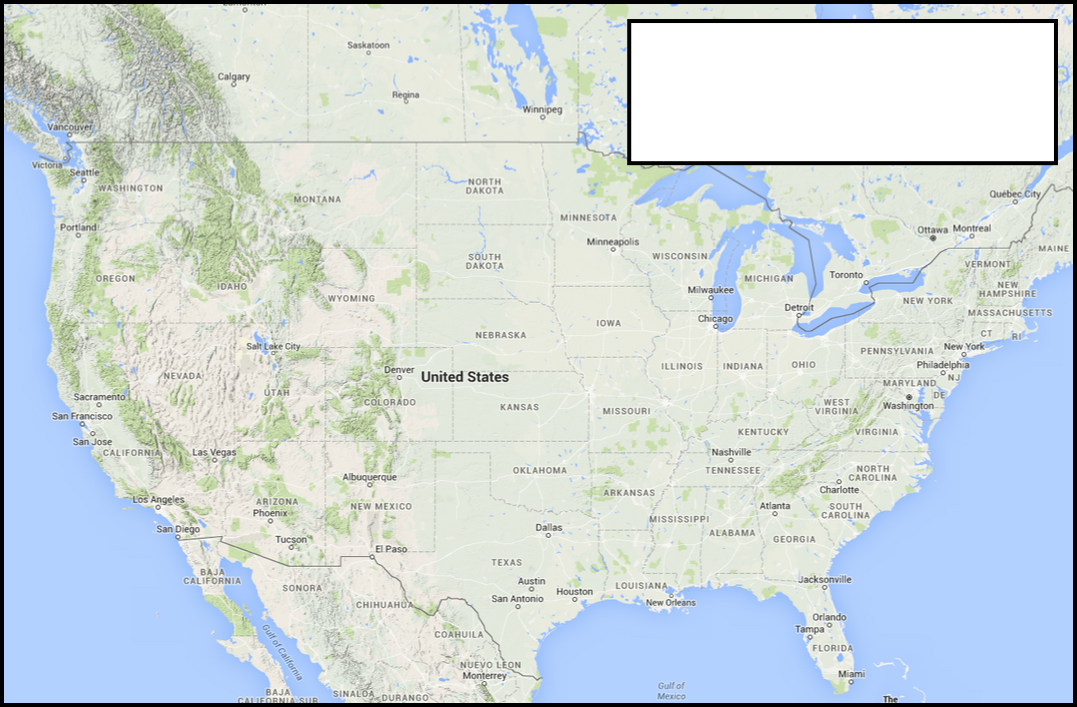
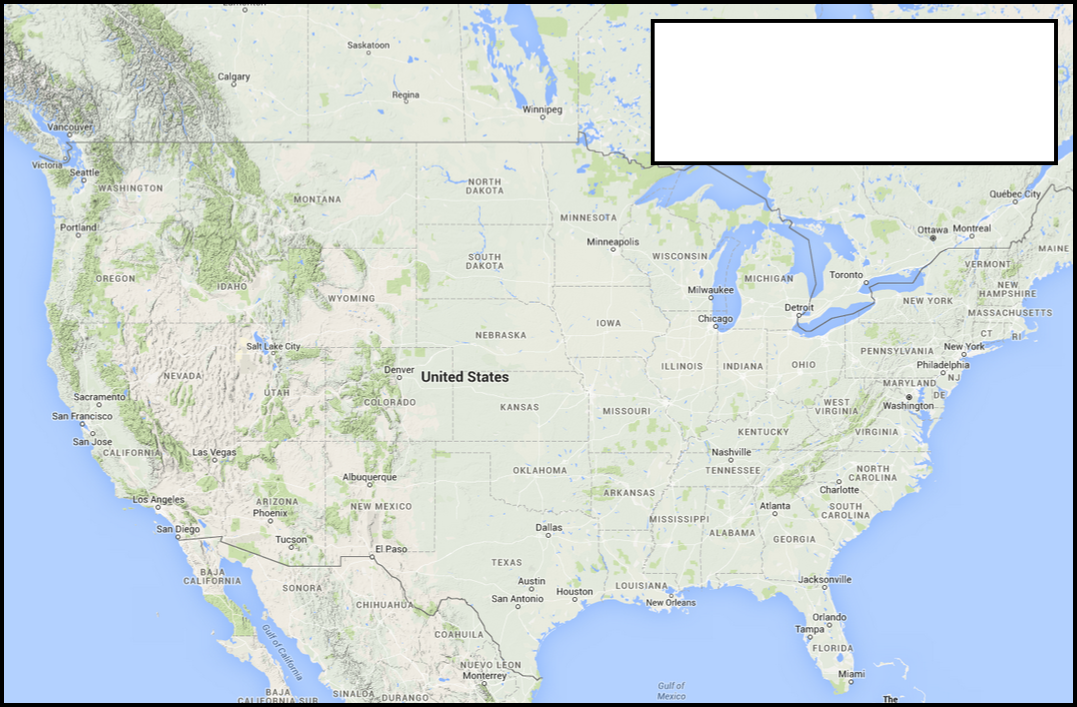
made it so that routes are now drawn

Changed region(s): [[0.5822, 0.0311, 0.6128, 0.2489]]

diff --git a/GUI/TTR_GUI.py b/GUI/TTR_GUI.py
@@ -2,6 +2,8 @@ from game.classes import *
 import matplotlib.pyplot as plt
 import matplotlib.image as mpimg
 import numpy as np
+from game.board import create_board
+
 
 #cities = dict()
 
@@ -10,7 +12,7 @@ import numpy as np
 #y = [] 
 
 class GUI():
-
+    colors = []
     cities = dict()
     x = []
     y = [] 
@@ -53,6 +55,19 @@ class GUI():
                        "Winnipeg": [ 540.9, 118.8 ]
                    }
 
+    def setColors(self):
+        #self.colors={'Red':'#185aa9',
+        #             'Orange':'#185aa9', 
+        #             'Blue':'AA3939',
+        #             'Yellow':'#185aa9',
+        #             'Green':'#185aa9',
+        #             'Pink':'#185aa9',
+        #             'Black':'#185aa9',
+        #             'White':'#185aa9',
+        #             'None':'#185aa9',
+        #         }
+        self.colors=['#b61c16','#bc5510','#1033bc','#d8c413','#13750a','#6c0a75','#030203','#ebeaeb','#6d696d']
+                     
     def plot_board(self):
         for city in self.cities:
             self.x.append(self.cities[city][0])
@@ -63,10 +78,21 @@ if __name__ == '__main__':
     gui = GUI()
     img=mpimg.imread('world2.png')
     imgplot = plt.imshow(img)
-    plt.show()
     gui.place_cities()
     gui.plot_board()
+    gui.setColors()
     plt.plot(gui.x,gui.y,'ro')
+    [city_edges,edges] = create_board()
+    
+    for edge in edges:
+        x_1 = []
+        y_1 = []
+        x_1.append(gui.cities[edge.city1][0])
+        y_1.append(gui.cities[edge.city1][1])
+        x_1.append(gui.cities[edge.city2][0])
+        y_1.append(gui.cities[edge.city2][1])
+        plt.plot(x_1,y_1,gui.colors[edge.color])
+
     plt.show()
 
 
